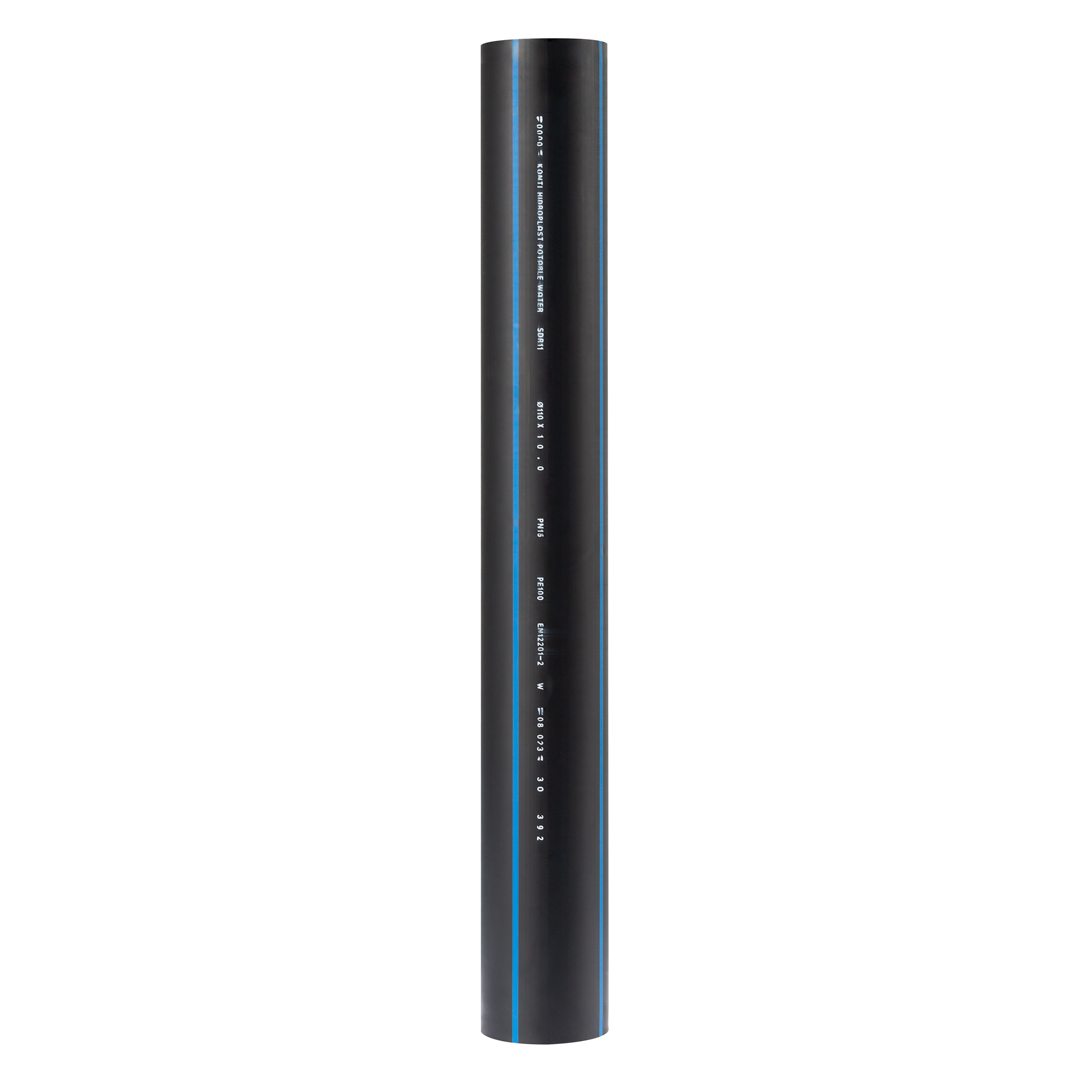
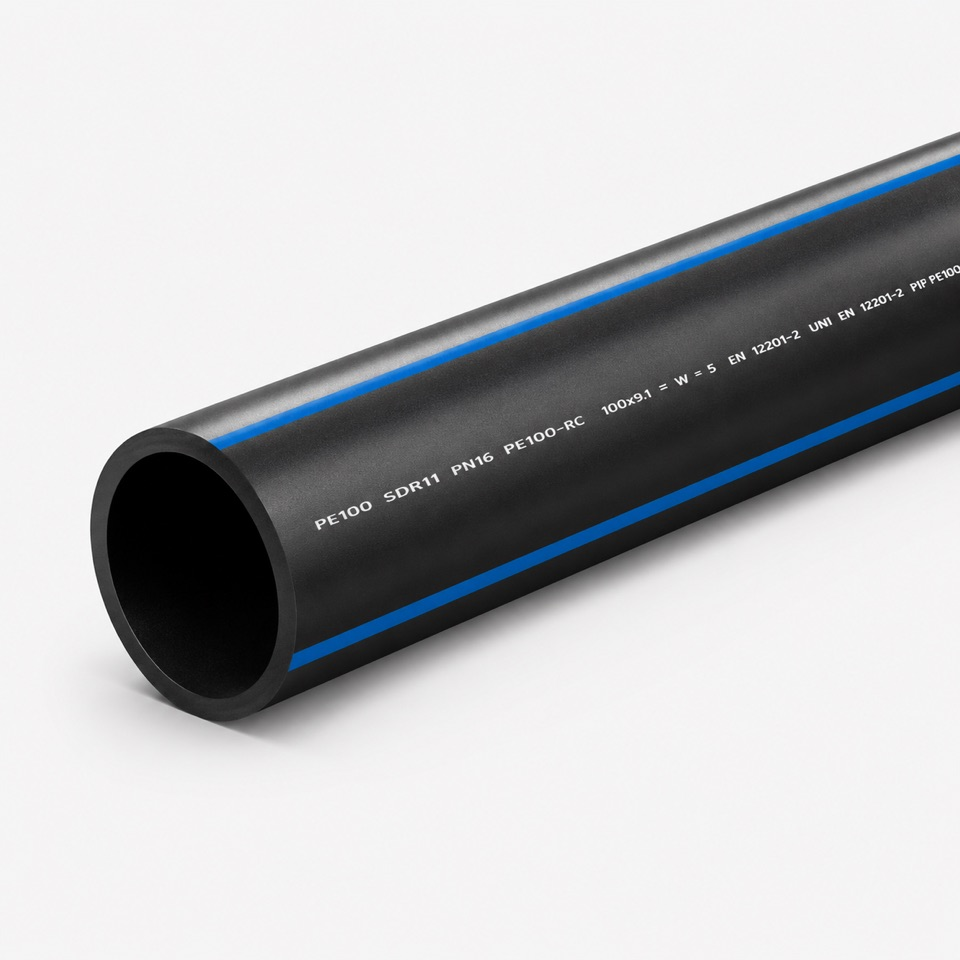
Update Konti product imagery and metadata

diff --git a/src/lib/products-data.ts b/src/lib/products-data.ts
@@ -119,7 +119,7 @@ export const productGroups: ProductGroup[] = [
     application: "Water Supply & Pressure Systems",
     description:
       "High-density polyethylene PE100 pressure pipe for potable water distribution, irrigation mains, and pressurised industrial networks. Engineered for 50+ year service life with full fusion-weld compatibility. Available in solid-wall SDR series from PN6 to PN32 across three Balkan-region suppliers.",
-    image: "/products/civil/konti-pe100-water-pipe.jpg",
+    image: "/products/civil/konti-pe100-water-pipe.jpg?v=3",
     standards: ["EN 12201", "ISO 4427", "ISO 9001"],
     keyProperties: {
       "Material": "PE100 (HDPE)",
@@ -188,7 +188,7 @@ export const productGroups: ProductGroup[] = [
     application: "Gravity Sewage & Stormwater",
     description:
       "Double-wall corrugated HDPE pipe with smooth inner bore and structured outer wall, designed for gravity sewage, stormwater drainage and subsurface cable protection. SN4 class features a distinctive blue interior lining; SN8 features yellow lining for easy site identification. Available in diameters up to Ø2000 mm.",
-    image: "/products/civil/konti-kan-corrugated-sewage.jpg",
+    image: "/products/civil/konti-spiral-pp-pipe.jpg?v=2",
     standards: ["EN 13476", "EN 13476-1:2018"],
     keyProperties: {
       "Wall Type": "Double-wall corrugated (smooth inner)",
@@ -343,27 +343,28 @@ export const productGroups: ProductGroup[] = [
   {
     id: "electric-optic-conduit",
     slug: "electric-optic-conduit",
-    name: "Electric & Optical Conduit",
-    shortName: "HDPE Conduit",
+    name: "HDPE Optic Monotube",
+    shortName: "Monotube",
     category: "civil",
     material: "HDPE",
     application: "Cable Protection",
     description:
-      "HDPE conduit pipe for underground protection of electrical cables, fibre-optic lines, and telecommunications infrastructure. PTT-standard monotube in single and twin configurations. Smooth inner bore allows easy cable pulling. Available in opaque black for electrical and with stripe coding for fibre-optic identification.",
-    image: "/products/industrial/konti-cable-duct.jpg",
+      "PTT-standard HDPE monotube conduit for underground protection of electrical and fibre-optic cables. Stocked in Ø 40 × 1.2 mm (8 ATM) and Ø 40 × 2.4 mm (10 ATM) black optic tubes; larger diameters and bitube configurations supplied on order.",
+    image: "/products/industrial/konti-optic-monotube.jpg?v=2",
     standards: ["EN 61386", "PTT Standard"],
     keyProperties: {
       "Material": "HDPE",
-      "Types": "Monotube · Bitube",
-      "Monotub Optic": "40×1.2 mm (8 ATM) / 40×2.4 mm (10 ATM)",
-      "Colour": "Black / Orange (electric) · Orange with stripe (optic)",
+      "Standard": "PTT Telecom / EN 61386",
+      "Stock Monotube": "Ø40 × 1.2 mm (8 ATM) · Ø40 × 2.4 mm (10 ATM)",
+      "On Order": "Ø50+ monotube · Bitube configurations",
+      "Colours": "Black optic (stock) · Orange / striped (order)",
       "Jointing": "Coupler or direct bury",
     },
     dimensions: [
       { dn: 40, od: 40, wallByClass: { "8 ATM": 1.2, "10 ATM": 2.4 }, lengths: "coils / bars", available: "stock" },
-      { dn: 50, od: 50, lengths: "coils / bars", available: "stock" },
-      { dn: 63, od: 63, lengths: "coils / bars", available: "partial" },
-      { dn: 110, od: 110, lengths: "6 m bars", available: "partial" },
+      { dn: 50, od: 50, lengths: "coils / bars", available: "order" },
+      { dn: 63, od: 63, lengths: "coils / bars", available: "order" },
+      { dn: 110, od: 110, lengths: "6 m bars", available: "order" },
       { dn: 160, od: 160, lengths: "6 m bars", available: "order" },
     ],
     tags: ["conduit", "optic", "electric", "telecom"],
@@ -374,23 +375,16 @@ export const productGroups: ProductGroup[] = [
         country: "North Macedonia",
         color: "#0891b2",
         availability: "partial",
-        stockNote: "Ø40 & Ø50 monotube optic in stock; bitube on order",
-        orderNote: "Bitube and larger sizes on order",
-        diameterMin: 40,
-        diameterMax: 110,
-        specificSpecs: { "Monotub 40×1.2 mm": "8 ATM — in stock", "Monotub 40×2.4 mm": "10 ATM — in stock", "Bitube": "On order only" },
-      },
-      {
-        partnerId: "ferplast-ks",
-        partnerName: "Ferplast",
-        country: "Kosovo",
-        color: "#a855f7",
-        availability: "partial",
-        stockNote: "Ø40–110 mm in stock",
-        orderNote: "Ø110–160 mm on order",
+        stockNote: "Ø40 monotube optic (8 & 10 ATM) in stock",
+        orderNote: "Bitube and Ø50+ monotube on order",
         diameterMin: 40,
         diameterMax: 160,
-        standards: ["EN 61386"],
+        standards: ["EN 61386", "PTT Standard"],
+        specificSpecs: {
+          "Monotube": "Black optic monotube; smooth inner bore",
+          "Bitube": "Twin configuration on order",
+          "Accessories": "Couplers, pulling rope caps",
+        },
       },
     ],
   },
@@ -1599,7 +1593,7 @@ export const productGroups: ProductGroup[] = [
     application: "Water Supply & Pressure Distribution",
     description:
       "Konti Hidroplast's PE-100 water supply pipes are manufactured from third-generation high-density polyethylene (HDPE PE-100) to EN 12201-2 and ISO 4427. Rated for pressures from PN 6 to PN 25 (PN 32 on order), they are suitable for municipal water supply, pressurised distribution networks, gas transport, and irrigation mainlines. Pipes Ø 16–110 mm are supplied in coils; Ø 125–800 mm in straight 6 m or 12 m bars. The black outer colour with coextruded blue lines or full blue ensures UV stability and easy identification.",
-    image: "/products/civil/konti-pe100-water-pipe.jpg",
+    image: "/products/civil/konti-pe100-water-pipe.jpg?v=3",
     standards: ["EN 12201-2", "ISO 4427", "DIN 8074"],
     keyProperties: {
       "Material": "HDPE PE-100",
@@ -1851,7 +1845,7 @@ export const productGroups: ProductGroup[] = [
     application: "Fibre Optic & Telecom Cable Protection",
     description:
       "Konti Kan Optic Cable Protection pipes are double-wall HDPE pipes with a corrugated outer surface and smooth inner surface. Used as holders or protection conduits for fibre optic, telecommunications, and power cables — especially at road and bridge crossings. Produced in black, red, and yellow (custom colours on request) in straight lengths of 6 m or 12 m, and coils of 50 m. Nominal diameter: 75–200 mm OD. In stock: Ø 40 and Ø 50 mm sizes; all others on order.",
-    image: "/products/catalog/konti-optic-duct.jpg",
+    image: "/products/industrial/konti-kan-optic.jpg?v=1",
     standards: ["EN 50086", "EN 61386", "EN 13476-3"],
     keyProperties: {
       "Wall Type": "Double-wall: smooth inner / corrugated outer",

diff --git a/src/lib/i18n/translations.ts b/src/lib/i18n/translations.ts
@@ -501,11 +501,11 @@ export const productTranslations: Record<
     },
   },
   "electric-optic-conduit": {
-    name: { sq: "Tub Mbrojtës për Kabllo Elektrike & Optike", en: "Electric & Optical Conduit" },
-    shortName: { sq: "Kanal HDPE", en: "HDPE Conduit" },
+    name: { sq: "Monotub Optik HDPE", en: "HDPE Optic Monotube" },
+    shortName: { sq: "Monotub", en: "Monotube" },
     description: {
-      sq: "Tub kanali HDPE për mbrojtjen nëntokësore të kabllove elektrike, linjave me fibër optike dhe infrastrukturës së telekomunikacionit.",
-      en: "HDPE conduit pipe for underground protection of electrical cables, fibre-optic lines, and telecommunications infrastructure.",
+      sq: "Monotub HDPE sipas standardit PTT për mbrojtjen nëntokësore të kabllove elektrike dhe fibër optike. Në stok: Ø40 × 1.2 mm (8 ATM) dhe Ø40 × 2.4 mm (10 ATM); konfigurimet e tjera me porosi.",
+      en: "PTT-spec HDPE monotube conduit for underground protection of electrical and fibre-optic cables. Stocked in Ø40 × 1.2 mm (8 ATM) and Ø40 × 2.4 mm (10 ATM); other configurations available on order.",
     },
   },
   "pph-drainage-pipe": {

diff --git a/public/products/updates/first_batch.md b/public/products/updates/first_batch.md
@@ -1,0 +1,99 @@
+# Product Update Batch Template
+
+Use this file to stage each batch of catalog changes before we implement them. Fill in the sections below, check off the tasks, then ping me to apply the updates.
+
+## Quick workflow
+1. Drop raw assets in `public/products/updates/images-before-compressing/`.
+2. Compress/resize with:
+   ```sh
+   sips -s format jpeg -s formatOptions 80 --resampleWidth 960 "<source path>" --out <target path>
+   ```
+   *Adjust width if a product hero needs another size.*
+3. Move optimized files into their final path (e.g. `public/products/<category>/<slug>.jpg`).
+4. Note required code edits:
+   - `src/lib/products-data.ts`
+   - `src/lib/i18n/translations.ts`
+   - Any other component/asset references.
+
+## Batch metadata
+- **Batch name:** `first-batch`
+- **Owner:** _(your name)_
+- **Target deploy/date:** _(YYYY-MM-DD)_
+- **Related Jira / notes:**
+
+## Summary of changes
+- [x] Existing product copy updates
+- [x] Existing product image replacements
+- [ ] Product removals
+- [ ] New product entries
+- [ ] Other (specify)
+
+## Existing products to update
+| Product name / slug | Action (image/text/both) | Current asset | New asset (optimized path) | Copy tweaks needed? |
+| --- | --- | --- | --- | --- |
+| Konti Kan Optic Cable Protection (`konti-kan-optic-cable-protection`) | Image + copy refresh | /products/catalog/konti-optic-duct.jpg | `public/products/industrial/konti-kan-optic.jpg` *(optimized)* | Updated name/description to Monotub + availability notes |
+| HDPE Optic Monotube (`electric-optic-conduit`) | Image refresh | /products/industrial/konti-cable-duct.jpg | `public/products/industrial/konti-optic-monotube.jpg` *(optimized)* | Done |
+| Spiral PP Sewage Pipe (`spiral-pp-sewage-pipe`) | Image refresh | /products/civil/konti-kan-corrugated-sewage.jpg | `public/products/civil/konti-spiral-pp-pipe.jpg` *(optimized)* | Done |
+
+### Copy changes for existing products
+Document exact text replacements so we can update translation files quickly.
+
+```jsonc
+// Example format
+"product-id": {
+  "name": { "sq": "", "en": "" },
+  "description": { "sq": "", "en": "" }
+}
+```
+
+## Products to remove
+| Product name / slug | Reason | Files to clean up |
+| --- | --- | --- |
+|  |  |  |
+
+## New products to add
+| Product name | Proposed slug | Category | Image path (optimized) | Key specs summary |
+| --- | --- | --- | --- | --- |
+|  |  |  |  |  |
+
+### Draft product object
+Provide the payload we should insert into `src/lib/products-data.ts`.
+
+```ts
+{
+  id: "",
+  slug: "",
+  name: "",
+  shortName: "",
+  category: "",
+  material: "",
+  application: "",
+  description: "",
+  image: "/products/...",
+  standards: [],
+  keyProperties: {
+    "": ""
+  },
+  dimensions: null,
+  tags: [],
+  suppliers: []
+}
+```
+
+### Translation entries
+Record text for `src/lib/i18n/translations.ts`.
+
+```jsonc
+"new-product-id": {
+  "name": { "sq": "", "en": "" },
+  "shortName": { "sq": "", "en": "" },
+  "description": { "sq": "", "en": "" }
+}
+```
+
+## Outstanding questions / approvals
+- [ ] _Example:_ Need supplier confirmation for pressure rating?
+
+---
+
+Once this template is filled, let me know and I will execute the batch updates (asset moves, code edits, deletions, additions).
